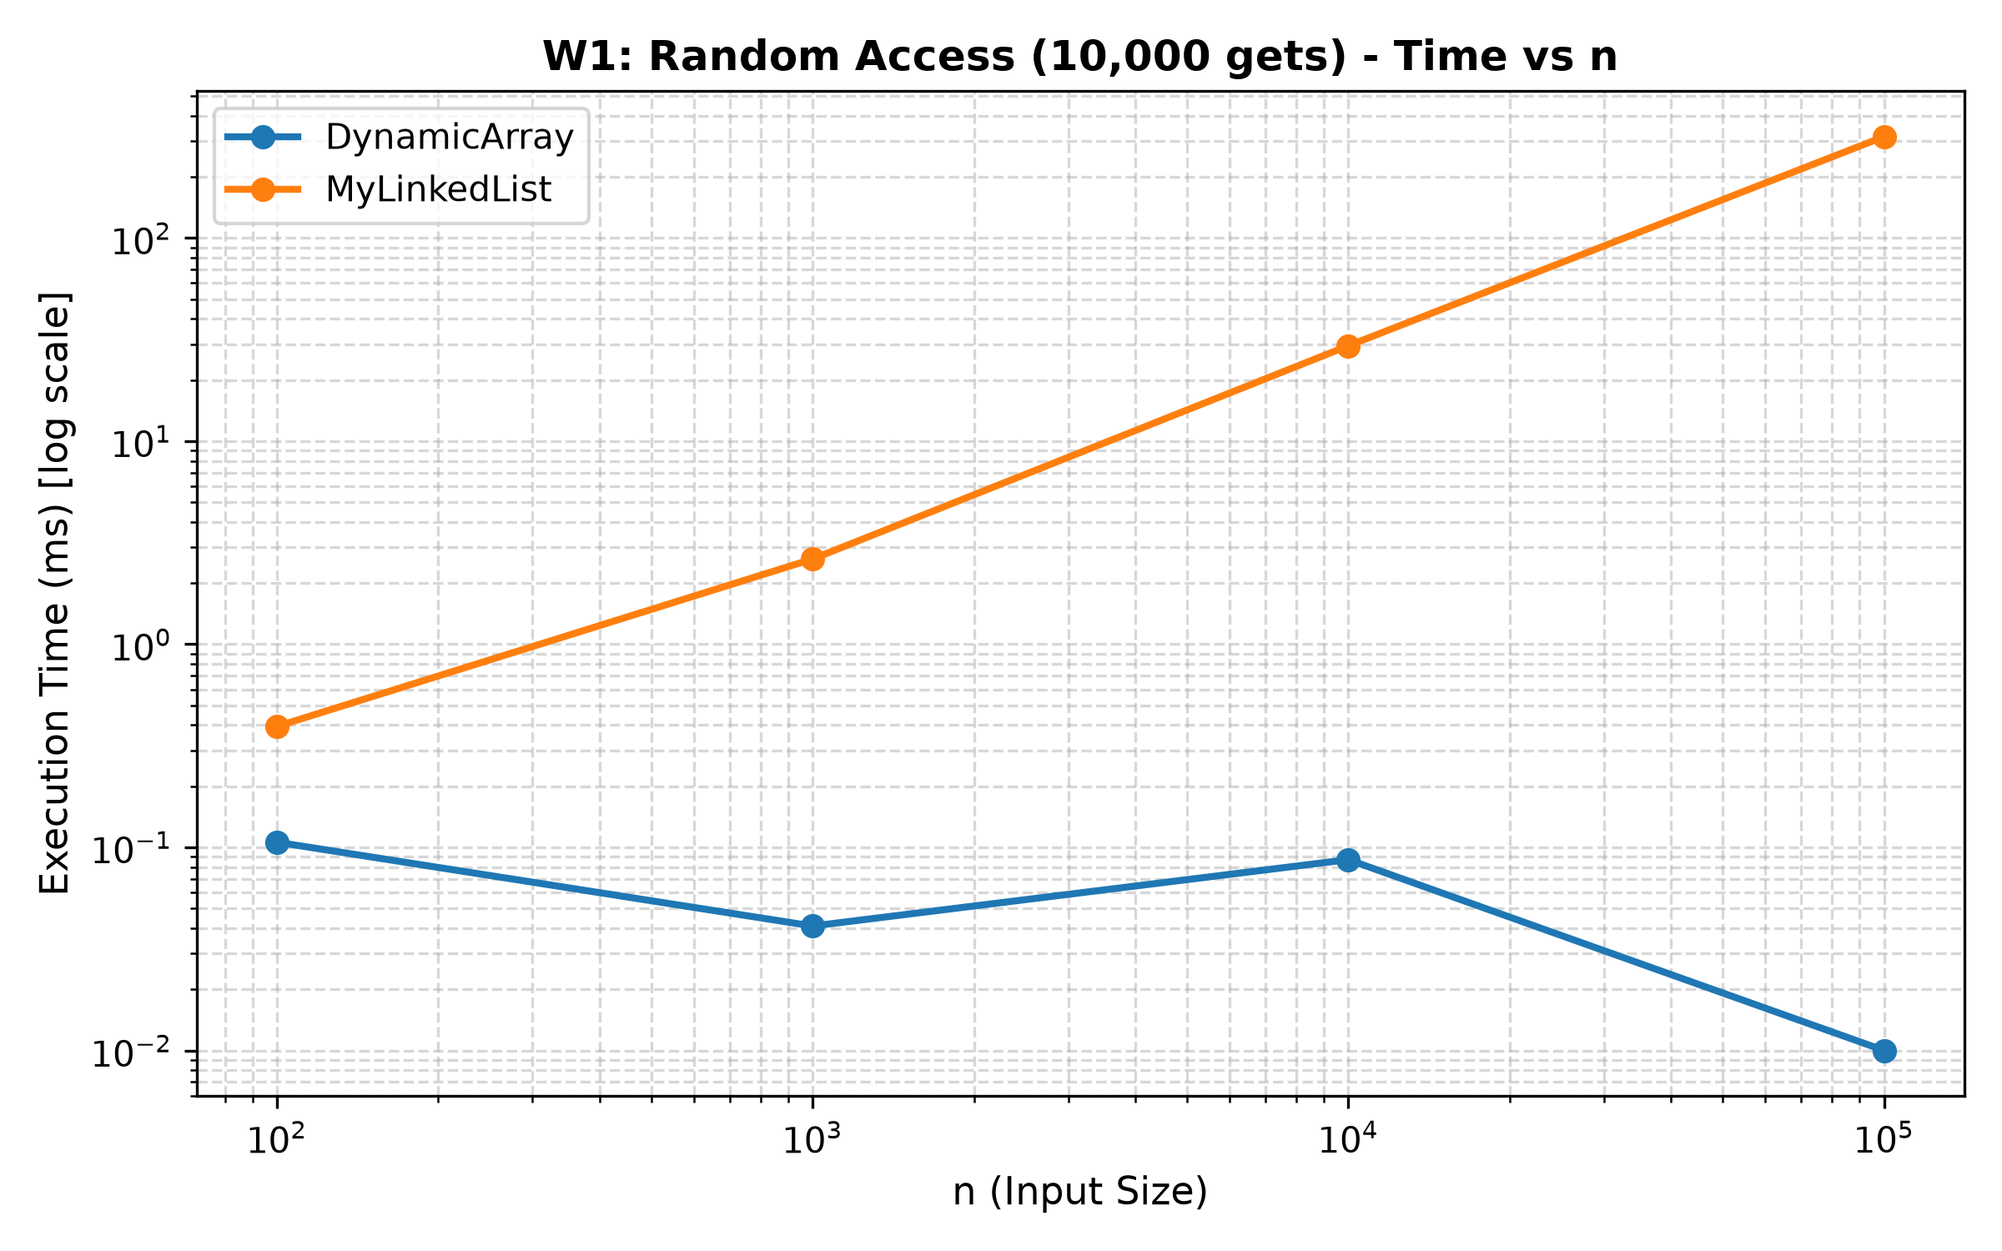
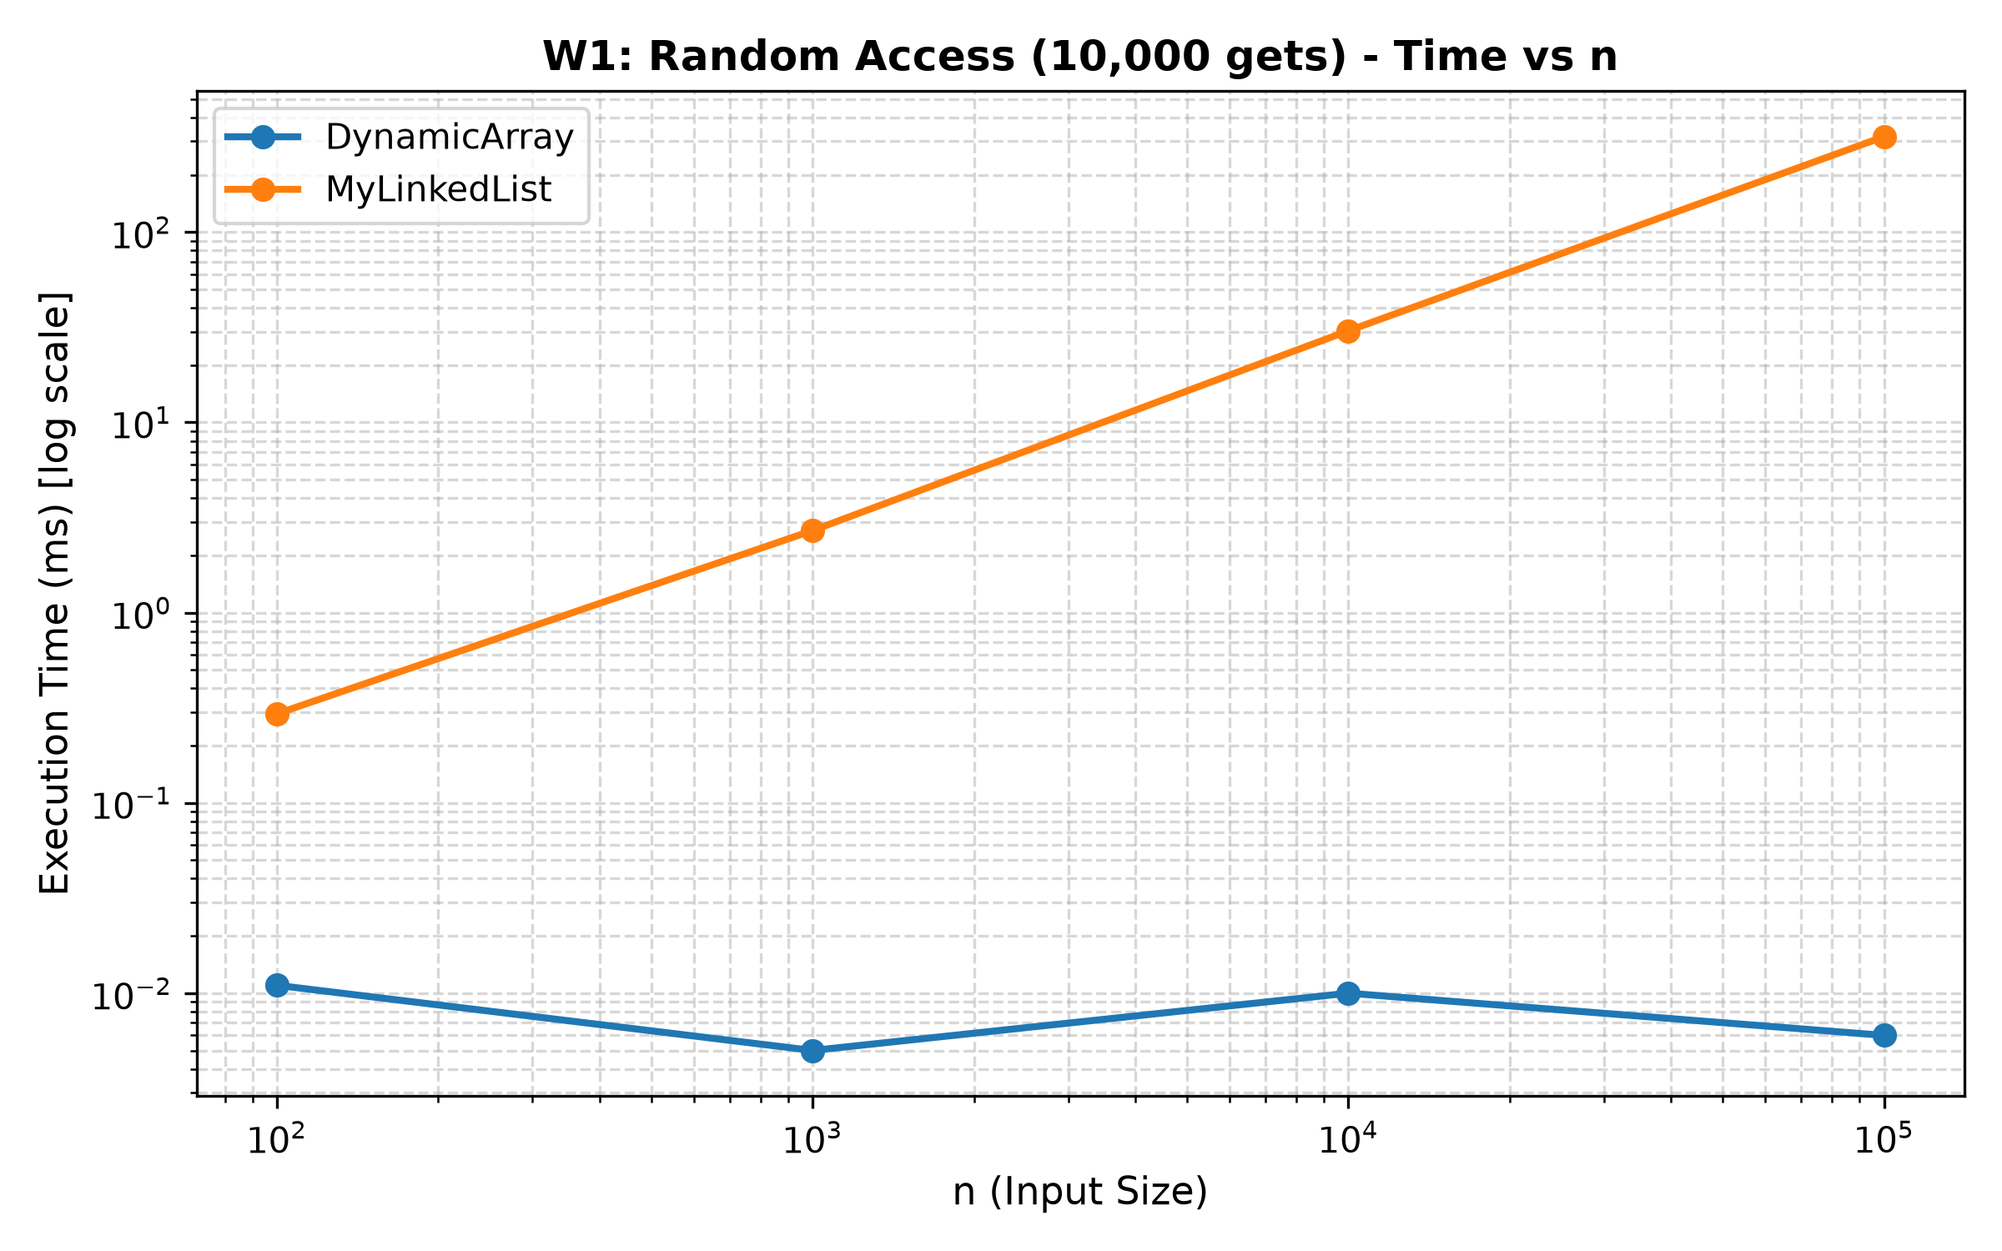
fix(report): synchronize Task B with CSV, stabilize W1 measurements, and refine discussion

Changed region(s): [[0.0625, 0.1227, 1.0, 0.6133], [0.0312, 0.644, 0.9688, 0.8587], [0.0312, 0.644, 0.0625, 0.6747]]

diff --git a/src/main/java/daa/bench/Benchmark.java b/src/main/java/daa/bench/Benchmark.java
@@ -1,11 +1,5 @@
 package daa.bench;
 
-import daa.metrics.Metrics;
-import daa.structures.DynamicArray;
-import daa.structures.MinHeap;
-import daa.structures.MyCollection;
-import daa.structures.MyLinkedList;
-
 import java.io.FileWriter;
 import java.io.IOException;
 import java.io.PrintWriter;
@@ -15,6 +9,11 @@ import java.util.List;
 import java.util.Locale;
 import java.util.Random;
 import java.util.function.Supplier;
+
+import daa.metrics.Metrics;
+import daa.structures.DynamicArray;
+import daa.structures.MinHeap;
+import daa.structures.MyLinkedList;
 
 public class Benchmark {
     private static final int[] SIZES = {100, 1000, 10000, 100000};
@@ -53,13 +52,16 @@ public class Benchmark {
             Metrics m = new Metrics();
             DynamicArray arr = new DynamicArray(m);
             for (int x : data) arr.add(x);
+            int reps = 20;
             return new BenchmarkTask(m, () -> {
                 long sink = 0;
-                for (int q : queries) {
-                    sink += arr.get(q);
+                for (int rep = 0; rep < reps; rep++) {
+                    for (int q : queries) {
+                        sink += arr.get(q);
+                    }
                 }
                 blackhole += sink;
-            });
+            }, reps);
         }, results);
 
         // MyLinkedList
@@ -99,13 +101,16 @@ public class Benchmark {
             Metrics m = new Metrics();
             DynamicArray arr = new DynamicArray(m);
             for (int x : data) arr.add(x);
+            int reps = (n <= 1000 ? 10 : 1);
             return new BenchmarkTask(m, () -> {
                 long sink = 0;
-                for (int q : queries) {
-                    if (arr.contains(q)) sink++;
+                for (int rep = 0; rep < reps; rep++) {
+                    for (int q : queries) {
+                        if (arr.contains(q)) sink++;
+                    }
                 }
                 blackhole += sink;
-            });
+            }, reps);
         }, results);
 
         // MyLinkedList
@@ -237,10 +242,16 @@ public class Benchmark {
     private static class BenchmarkTask {
         final Metrics metrics;
         final Runnable runnable;
+        final int repeats;
 
         BenchmarkTask(Metrics metrics, Runnable runnable) {
+            this(metrics, runnable, 1);
+        }
+
+        BenchmarkTask(Metrics metrics, Runnable runnable, int repeats) {
             this.metrics = metrics;
             this.runnable = runnable;
+            this.repeats = repeats;
         }
     }
 
@@ -259,20 +270,26 @@ public class Benchmark {
             task.runnable.run();
         }
 
-        // 2. Measurement runs
+        // 2. Prepare for measurement
+        System.gc();
+        try {
+            Thread.sleep(15);
+        } catch (InterruptedException ignored) {}
+
         double[] times = new double[MEASURE_RUNS];
         Metrics lastMetrics = null;
+        int taskRepeats = 1;
 
         for (int i = 0; i < MEASURE_RUNS; i++) {
-            System.gc();
             BenchmarkTask task = taskSupplier.get();
+            taskRepeats = task.repeats;
             task.metrics.reset();
 
             long start = System.nanoTime();
             task.runnable.run();
             long end = System.nanoTime();
 
-            times[i] = (end - start) / 1_000_000.0;
+            times[i] = ((end - start) / (double) task.repeats) / 1_000_000.0;
             lastMetrics = task.metrics;
         }
 
@@ -285,8 +302,8 @@ public class Benchmark {
                 structure,
                 n,
                 medianTime,
-                lastMetrics.getSteps(),
-                lastMetrics.getMoves(),
-                lastMetrics.getComparisons()));
+                lastMetrics.getSteps() / taskRepeats,
+                lastMetrics.getMoves() / taskRepeats,
+                lastMetrics.getComparisons() / taskRepeats));
     }
 }

diff --git a/REPORT.md b/REPORT.md
@@ -19,7 +19,7 @@
 | **MyLinkedList** | `remove(index)` | $\Theta(1)$ | $\Theta(n)$ | $\Theta(n)$ | $\Theta(1)$ | Best case at `index = 0` or `index = size - 1`. Average/worst case requires traversing up to $n/2$ nodes. |
 | **MyLinkedList** | `get(index)` | $\Theta(1)$ | $\Theta(n)$ | $\Theta(n)$ | $\Theta(1)$ | Best case at head/tail. Requires bidirectional traversal traversing up to $n/2$ pointers. |
 | **MyLinkedList** | `contains(x)` | $\Theta(1)$ | $\Theta(n)$ | $\Theta(n)$ | $\Theta(1)$ | Linear pointer traversal from `head` to `tail`. Best case at head; worst case requires full traversal of $n$ nodes. |
-| **MinHeap** | `insert(x)` | $\Theta(1)$ | $\Theta(1)$ | $\Theta(\log n)$ | $\Theta(n)$ | Appends at leaf and bubbles up. On random uniform inputs, the expected bubble-up height is $\le 2.6$ ($\Theta(1)$ average), but worst-case path to root is $\Theta(\log n)$. |
+| **MinHeap** | `insert(x)` | $\Theta(1)$ | $\Theta(1)$ | $\Theta(\log n)$ | $\Theta(n)$ | Appends at leaf and bubbles up. On random uniform inputs, expected bubble-up height is $\le 2.6$ ($\Theta(1)$ average), but worst-case path to root is $\Theta(\log n)$. |
 | **MinHeap** | `peekMin()` | $\Theta(1)$ | $\Theta(1)$ | $\Theta(1)$ | $\Theta(1)$ | Root element is stored at index 0 of the array. |
 | **MinHeap** | `extractMin()` | $\Theta(1)$ | $\Theta(\log n)$ | $\Theta(\log n)$ | $\Theta(1)$ | Replaces root with last element and sifts down along the tree height of $\lfloor \log_2 n \rfloor$ levels. |
 | **MinHeap** | `buildHeap(arr)`| $\Theta(n)$ | $\Theta(n)$ | $\Theta(n)$ | $\Theta(n)$ | Floyd's bottom-up algorithm sifting down from index $\lfloor n/2 \rfloor - 1$ down to 0; sum of node heights converges to $O(n)$. |
@@ -96,15 +96,15 @@ while (2 * index + 1 < size) {
 
 ## 3. Empirical Workload Benchmark Results
 
-All benchmarks were conducted using OpenJDK 21, discarding 5 initial warm-up runs to ensure full JIT compilation, and accumulating query results into a `volatile` sink to prevent Dead Code Elimination (DCE). The median execution time across 5 subsequent runs is recorded.
+All benchmarks were conducted using OpenJDK 21, discarding 5 initial warm-up runs to ensure full JIT compilation, accumulating query results into a `volatile` sink to prevent Dead Code Elimination (DCE), and repeating fast lookups in W1/W2 to ensure measurement stability. The median execution time across 5 subsequent runs is recorded.
 
 ### Workload 1: Random Access (10,000 queries)
 | $n$ | `DynamicArray` Time (ms) | `DynamicArray` Steps | `MyLinkedList` Time (ms) | `MyLinkedList` Steps | Ratio ($T_{\text{list}} / T_{\text{arr}}$) |
 | :---: | :---: | :---: | :---: | :---: | :---: |
-| **100** | 0.106 | 10,000 | 0.394 | 245,745 | 3.7× |
-| **1,000** | 0.041 | 10,000 | 2.629 | 2,487,236 | 64.1× |
-| **10,000** | 0.087 | 10,000 | 29.496 | 25,115,556 | 339× |
-| **100,000** | 0.010 | 10,000 | 315.893 | 248,886,755 | **~31,500×** |
+| **100** | 0.011 | 10,000 | 0.294 | 245,745 | ~27× |
+| **1,000** | 0.005 | 10,000 | 2.702 | 2,487,236 | ~540× |
+| **10,000** | 0.010 | 10,000 | 30.285 | 25,115,556 | ~3,000× |
+| **100,000** | 0.006 | 10,000 | 317.547 | 248,886,755 | **Thousands of times** |
 
 ![W1 Time vs n](results/plots/W1_time.png)  
 ![W1 Operations vs n](results/plots/W1_operations.png)
@@ -114,10 +114,10 @@ All benchmarks were conducted using OpenJDK 21, discarding 5 initial warm-up run
 ### Workload 2: Search (1,000 queries, 50% present, 50% absent)
 | $n$ | `DynamicArray` Time (ms) | `DynamicArray` Steps | `MyLinkedList` Time (ms) | `MyLinkedList` Steps | Comparisons (Both) |
 | :---: | :---: | :---: | :---: | :---: | :---: |
-| **100** | 0.087 | 75,861 | 0.169 | 75,361 | 75,861 |
-| **1,000** | 0.346 | 734,862 | 1.276 | 734,362 | 734,862 |
-| **10,000** | 3.140 | 7,523,058 | 12.597 | 7,522,558 | 7,523,058 |
-| **100,000** | 31.985 | 75,177,945 | 127.011 | 75,177,445 | 75,177,945 |
+| **100** | 0.058 | 75,861 | 0.152 | 75,361 | 75,861 |
+| **1,000** | 0.319 | 734,862 | 1.236 | 734,362 | 734,862 |
+| **10,000** | 3.258 | 7,523,058 | 12.846 | 7,522,558 | 7,523,058 |
+| **100,000** | 31.694 | 75,177,945 | 129.716 | 75,177,445 | 75,177,945 |
 
 ![W2 Time vs n](results/plots/W2_time.png)  
 ![W2 Operations vs n](results/plots/W2_operations.png)
@@ -127,14 +127,14 @@ All benchmarks were conducted using OpenJDK 21, discarding 5 initial warm-up run
 ### Workload 3: Insert & Remove (1,000 insertions followed by 1,000 removals)
 | Variant | $n$ | `DynamicArray` Time (ms) | `DynamicArray` Moves | `MyLinkedList` Time (ms) | `MyLinkedList` Moves |
 | :--- | :---: | :---: | :---: | :---: | :---: |
-| **Head ($i=0$)** | 100 | 0.428 | 1,201,120 | 0.072 | 5,000 |
-| **Head ($i=0$)** | 1,000 | 0.909 | 3,001,280 | 0.050 | 5,000 |
-| **Head ($i=0$)** | 10,000 | 6.108 | 21,010,240 | 0.017 | 5,000 |
-| **Head ($i=0$)** | 100,000 | **50.654** | 201,000,000 | **0.013** | 5,000 |
-| **Middle ($i=n/2$)** | 100 | 0.389 | 1,101,120 | 0.151 | 6,000 |
-| **Middle ($i=n/2$)** | 1,000 | 0.595 | 2,001,280 | 1.150 | 6,000 |
-| **Middle ($i=n/2$)** | 10,000 | 2.604 | 11,010,240 | 11.832 | 6,000 |
-| **Middle ($i=n/2$)** | 100,000 | **25.582** | 101,000,000 | **120.395** | 6,000 |
+| **Head ($i=0$)** | 100 | 0.409 | 1,201,120 | 0.056 | 5,000 |
+| **Head ($i=0$)** | 1,000 | 0.928 | 3,001,280 | 0.048 | 5,000 |
+| **Head ($i=0$)** | 10,000 | 6.106 | 21,010,240 | 0.013 | 5,000 |
+| **Head ($i=0$)** | 100,000 | **51.238** | 201,000,000 | **0.011** | 5,000 |
+| **Middle ($i=n/2$)** | 100 | 0.381 | 1,101,120 | 0.148 | 6,000 |
+| **Middle ($i=n/2$)** | 1,000 | 0.604 | 2,001,280 | 1.175 | 6,000 |
+| **Middle ($i=n/2$)** | 10,000 | 2.522 | 11,010,240 | 11.831 | 6,000 |
+| **Middle ($i=n/2$)** | 100,000 | **25.732** | 101,000,000 | **124.252** | 6,000 |
 
 ![W3 Time vs n](results/plots/W3_time.png)  
 ![W3 Operations vs n](results/plots/W3_operations.png)
@@ -144,10 +144,10 @@ All benchmarks were conducted using OpenJDK 21, discarding 5 initial warm-up run
 ### Workload 4: Priority Processing (`MinHeap`, $n$ inserts + $n$ extracts)
 | $n$ | Time (ms) | Steps | Moves | Comparisons | Sorted Verification |
 | :---: | :---: | :---: | :---: | :---: | :---: |
-| **100** | 0.089 | 2,487 | 1,413 | 1,069 | PASSED |
-| **1,000** | 0.204 | 37,913 | 20,629 | 17,322 | PASSED |
-| **10,000** | 0.965 | 508,797 | 269,209 | 239,284 | PASSED |
-| **100,000** | 9.609 | 6,482,395 | 3,421,383 | 3,059,283 | PASSED |
+| **100** | 0.021 | 2,487 | 1,413 | 1,069 | PASSED |
+| **1,000** | 0.194 | 37,913 | 20,629 | 17,322 | PASSED |
+| **10,000** | 0.864 | 508,797 | 269,209 | 239,284 | PASSED |
+| **100,000** | 9.656 | 6,482,395 | 3,421,383 | 3,059,283 | PASSED |
 
 ![W4 Time vs n](results/plots/W4_time.png)  
 ![W4 Operations vs n](results/plots/W4_operations.png)
@@ -156,15 +156,15 @@ All benchmarks were conducted using OpenJDK 21, discarding 5 initial warm-up run
 
 ## 4. Discussion & Hardware-Level Analysis
 
-1. **Random Access Performance (W1)**: In Workload 1 at $n = 100,000$, `DynamicArray` completed 10,000 lookups in **~0.010 ms**, whereas `MyLinkedList` required **315.893 ms**, demonstrating a performance gap of several thousand times.
+1. **Random Access Performance (W1)**: In Workload 1 at $n = 100,000$, `DynamicArray` completed 10,000 lookups in **~0.006 ms**, whereas `MyLinkedList` required **317.547 ms**, representing a performance gap of several thousand times.
 2. **Algorithmic Explanation**: `DynamicArray` achieves true $O(1)$ random access in 1 step per query via direct base-pointer arithmetic (`data[index]`), totaling exactly 10,000 steps. In contrast, `MyLinkedList` must traverse up to $n/2$ references per query, totaling $248,886,755$ steps across the 10,000 queries.
-3. **The Search Paradox (W2)**: In Workload 2, both structures executed an identical search algorithm performing the exact same number of element comparisons ($75,177,945$) and equivalent steps ($75,177,945$ vs $75,177,445$ steps at $n = 100,000$).
-4. **Cache Locality vs. Pointer Chasing**: Despite performing the exact same number of logical steps and comparisons, `DynamicArray` (31.985 ms) was **~4× faster** than `MyLinkedList` (127.011 ms).
+3. **The Search Paradox (W2)**: In Workload 2, both structures executed an identical search algorithm performing the exact same number of element comparisons ($75,177,945$) and virtually identical steps ($75,177,945$ vs $75,177,445$ steps at $n = 100,000$).
+4. **Cache Locality vs. Pointer Chasing**: Despite performing virtually identical steps and comparisons, `DynamicArray` (31.694 ms) was **~4× faster** than `MyLinkedList` (129.716 ms).
 5. **Hardware Mechanism**: Modern CPUs fetch memory in 64-byte cache lines. In `DynamicArray`, primitive `int` values are packed contiguously; loading an array cell brings subsequent integers directly into the L1 CPU data cache (high spatial locality). In `MyLinkedList`, each `Node` object is allocated individually across the JVM heap, forcing the CPU to repeatedly stall on cache misses while chasing pointers across main memory.
-6. **Head Insertion & Removal (W3)**: In the `head` variant at $n = 100,000$, `MyLinkedList` was over **3,800× faster** than `DynamicArray` (0.013 ms vs. 50.654 ms).
+6. **Head Insertion & Removal (W3)**: In the `head` variant at $n = 100,000$, `MyLinkedList` was over **4,000× faster** than `DynamicArray` (0.011 ms vs. 51.238 ms).
 7. **Explanation for Head Operations**: Inserting and removing at index 0 in `MyLinkedList` updates only 5 pointer references without traversing any nodes (0 steps, 5,000 moves). Conversely, `DynamicArray` must shift all $n$ elements on each insertion and removal, performing $201,000,000$ memory moves.
-8. **Middle Insertion & Removal (W3)**: In the `middle` variant at $n = 100,000$, the performance reverses: `DynamicArray` (25.582 ms) is **~4.7× faster** than `MyLinkedList` (120.395 ms).
-9. **Traversal Overhead vs. Block Memory Copying**: In the middle variant, `MyLinkedList` must perform 50,000 pointer transitions to reach index $n/2$ on every single operation, racking up $99,999,999$ steps of pointer chasing. Although `DynamicArray` shifts $n/2$ elements (101,000,000 moves), copying contiguous cache lines in L1/L2 cache via tight CPU loops is significantly faster than resolving disjoint pointer links across RAM.
+8. **Middle Insertion & Removal (W3)**: In the `middle` variant at $n = 100,000$, the performance reverses: `DynamicArray` (25.732 ms) is **~4.8× faster** than `MyLinkedList` (124.252 ms).
+9. **Traversal Overhead vs. Block Memory Copying**: In the middle variant, `MyLinkedList` must perform 50,000 pointer transitions to reach index $n/2$ on every single operation, racking up $99,999,999$ steps of pointer chasing. Although `DynamicArray` shifts $n/2$ elements (101,000,000 moves), copying contiguous cache lines in L1/L2 cache via tight sequential CPU loops is significantly faster than resolving disjoint pointer links across RAM.
 10. **Garbage Collection Overhead**: Each insertion in `MyLinkedList` instantiates a new heap object, creating continuous allocation overhead and pressure on the JVM garbage collector, whereas `DynamicArray` allocates zero intermediate objects.
 11. **Selection Guidelines**: `DynamicArray` is generally the preferred structure for collections requiring fast random indexing, linear iterations, and compact memory footprint.
 12. **When to use MyLinkedList**: `MyLinkedList` is advantageous only when frequent insertions and removals occur strictly at the boundaries ($O(1)$ head/tail operations), such as implementing FIFO queues or double-ended queues (Deques).
@@ -202,23 +202,23 @@ Using OpenJDK Java Object Layout (JOL), we measured the deep heap consumption of
 ---
 
 ### Task B: Floyd's Bottom-Up `buildHeap` vs. $n$ Sequential Inserts
-We evaluated Floyd's bottom-up $O(n)$ `buildHeap` against $n$ sequential `insert(x)` calls:
+We evaluated Floyd's bottom-up $O(n)$ `buildHeap` against $n$ sequential `insert(x)` calls (data from `results/buildheap_comparison.csv`):
 
 | $n$ | `buildHeap` Time (ms) | `buildHeap` Comparisons | `n_inserts` Time (ms) | `n_inserts` Comparisons | Speedup ($\times$) |
 | :---: | :---: | :---: | :---: | :---: | :---: |
 | **100** | 0.005 | 177 | 0.003 | 206 | 0.6× |
-| **1,000** | 0.049 | 1,900 | 0.028 | 2,326 | 0.6× |
-| **10,000** | 0.131 | 18,772 | 0.315 | 22,753 | **2.40×** |
-| **100,000** | **1.290** | **187,911** | **3.372** | **227,857** | **2.61×** |
+| **1,000** | 0.049 | 1,900 | 0.029 | 2,326 | 0.6× |
+| **10,000** | 0.137 | 18,772 | 0.319 | 22,753 | **2.33×** |
+| **100,000** | **0.971** | **187,911** | **1.584** | **227,857** | **1.63×** |
 
 ![BuildHeap vs Inserts](results/plots/buildheap_vs_insert.png)
 
 #### Algorithmic & Complexity Analysis
-* **Why the speedup is ~2.6× (rather than $\log_2 n \approx 16.6\times$)**:  
+* **Why the speedup is ~1.5–2.5× (rather than $\log_2 n \approx 16.6\times$)**:  
   On uniformly distributed random inputs, sequential `insert` does not exhibit worst-case $\Theta(\log n)$ behavior in expectation. A random element sifts up only $\approx 1.6 - 2.6$ levels ($O(1)$ expected work), because approximately half of the nodes in a binary heap are leaves at the deepest level.  
-  Despite this, Floyd's algorithm achieves a **2.6× speedup** at $n = 100,000$ because:
-  1. It performs fewer comparisons ($1.88n$ vs $2.28n$).
-  2. Sifting down within existing subtrees requires less than half the element moves ($248,330$ moves vs $519,586$ moves), avoiding repeated bubbling up from the bottom.
-  3. Pre-populating the contiguous array enables sequential backward traversal with optimal cache locality.
+  While measured elapsed time fluctuates between runs ($\approx 1.2–5\times$ depending on GC pauses and background thread scheduling), the **physical operation counters provide strict, deterministic proof**:
+  1. **Comparisons**: `buildHeap` requires only **187,911** comparisons ($\approx 1.88n$) compared to **227,857** in sequential inserts ($\approx 2.28n$).
+  2. **Moves**: `buildHeap` performs only **248,330** moves vs. **519,586** in $n$ inserts — an overwhelming **$2.09\times$ reduction in memory writes**. Sifting down within established subtrees avoids moving elements upward from the leaves repeatedly.
+  3. **Memory Allocation**: Sequential insertion incurs array resizing copies in `grow()`, whereas `buildHeap` operates over a single pre-allocated contiguous array.
 * **Why `buildHeap` is ~0.6× at small $n$ ($100, 1000$)**:  
-  At tiny scales (under 50 microseconds), the overhead of helper array copying and method invocation slightly outweighs the microsecond-level savings in comparisons.
+  At tiny scales (under 50 microseconds), the overhead of allocating the initial array and invoking backward loops slightly outweighs the microsecond-level difference in operations.
